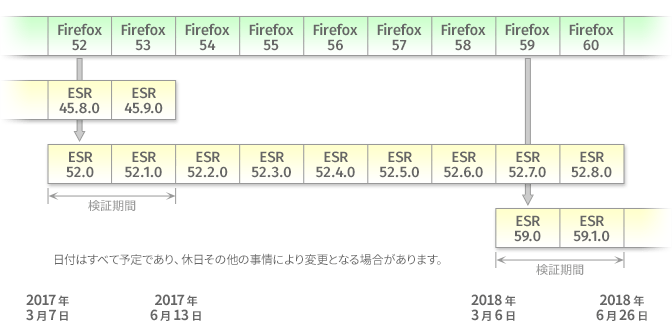
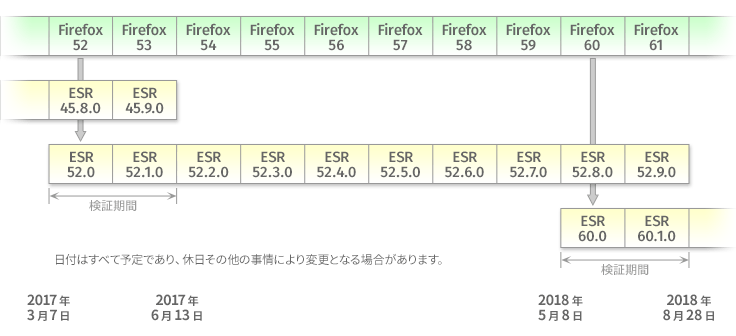
Firefox ESR リリーススケジュールを更新

diff --git a/business/index.html b/business/index.html
@@ -49,7 +49,7 @@ $breadcrumbs        = array(
                       </ul>
                     </div>
                   </div>
-                  <p><a href="/static/images/business/release-overview-52@2x.png?201706"><img src="/static/images/business/release-overview-52.png?201706" srcset="/static/images/business/release-overview-52@2x.png?201706 1.5x" alt="Firefox 52 ESR リリーススケジュール" width="672" height="336"></a></p>
+                  <p><a href="/static/images/business/release-overview-52@2x.png?201712"><img src="/static/images/business/release-overview-52.png?201712" srcset="/static/images/business/release-overview-52@2x.png?201712 1.5x" alt="Firefox 52 ESR リリーススケジュール" width="736" height="336"></a></p>
                 </section>
               </div>
             </div>
